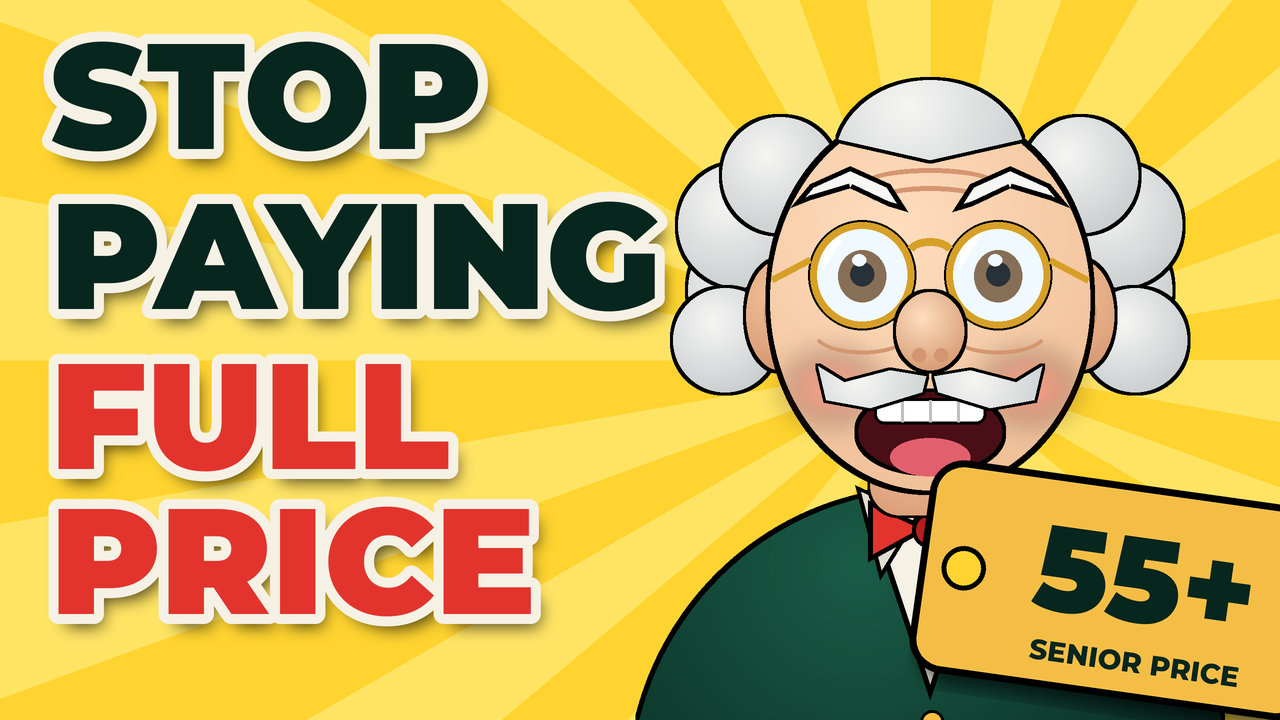
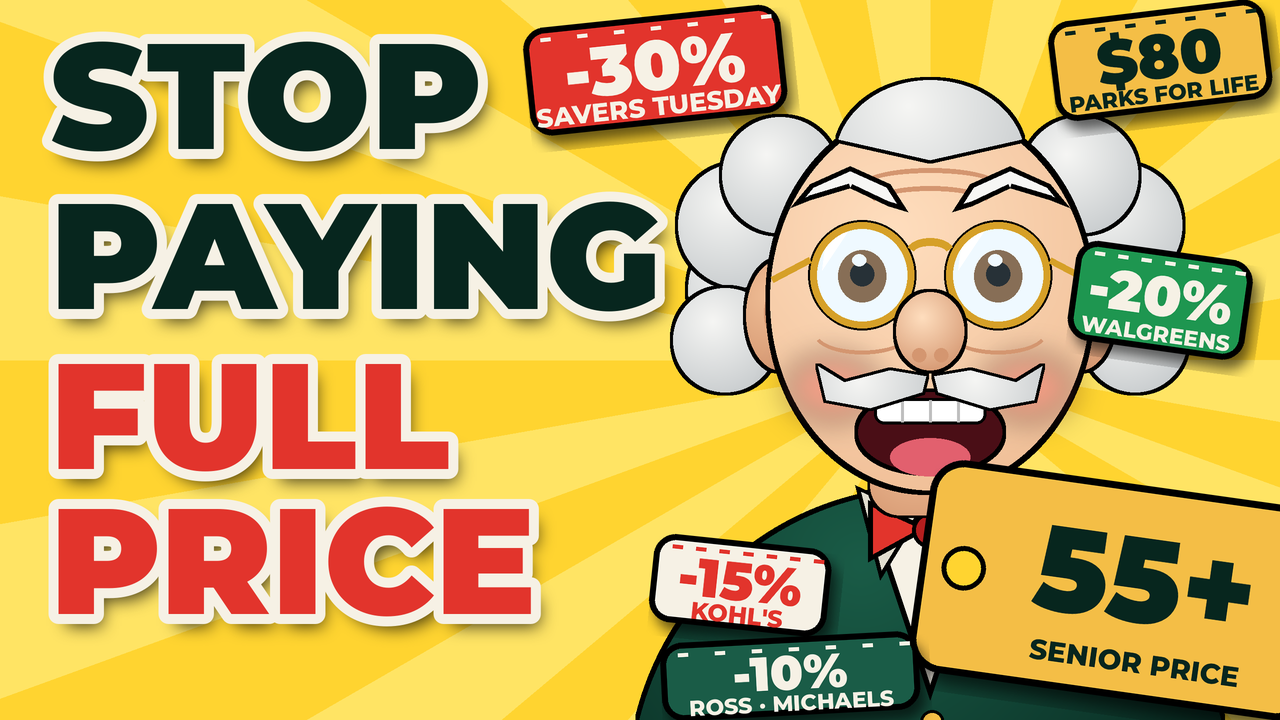
miniatura C con piu' sconti e numeri
Claude-Session: https://claude.ai/code/session_01VdcN6aGh1CnYp1K1Fxe615

diff --git a/senior_advantage/code/thumb_long1_c.py b/senior_advantage/code/thumb_long1_c.py
@@ -161,10 +161,29 @@ def hand(im, x, y, flip=False):
     d.rectangle([P(x - 60), P(y + 130), P(x + 80), P(y + 180)], fill=GREEN_L, outline=BLK, width=P(4))
 
 
+def sticker(im, cx, cy, big, small, w, h, ang, fill, fg, bigsz=70, smallsz=26):
+    W_, H_ = P(w), P(h)
+    lay = Image.new("RGBA", (W_, H_), (0, 0, 0, 0)); d = ImageDraw.Draw(lay)
+    d.rounded_rectangle([P(6), P(6), W_ - P(6), H_ - P(6)], radius=P(22), fill=fill, outline=BLK, width=P(6))
+    for k in range(7): d.line([(P(24) + k * (W_ - P(48)) / 6, P(18)), (P(24) + k * (W_ - P(48)) / 6 + P(10), P(18))], fill=fg, width=P(4))
+    d.text((W_ / 2, H_ * .46), big, font=F(P(bigsz), "Black"), fill=fg, anchor="mm")
+    d.text((W_ / 2, H_ * .80), small, font=F(P(smallsz)), fill=fg, anchor="mm")
+    sh = Image.new("RGBA", lay.size, (0, 0, 0, 0)); sh.paste(Image.new("RGBA", lay.size, (0, 0, 0, 150)), (0, 0), lay.split()[3]); sh = sh.filter(ImageFilter.GaussianBlur(P(6)))
+    lay = lay.rotate(ang, expand=True, resample=Image.BICUBIC); sh = sh.rotate(ang, expand=True, resample=Image.BICUBIC)
+    x, y = int(P(cx) - lay.width / 2), int(P(cy) - lay.height / 2)
+    base = im.convert("RGBA"); base.alpha_composite(sh, (x + P(6), y + P(10))); base.alpha_composite(lay, (x, y))
+    return base.convert("RGB")
+
+
 def build():
     im = bg()
+    im = sticker(im, 655, 70, "-30%", "SAVERS TUESDAY", 270, 120, 6, RED, IVORY)
     im = grandpa(im, 930, 300)
+    im = sticker(im, 1160, 300, "-20%", "WALGREENS", 190, 112, -8, (30, 150, 80), IVORY, 56, 22)
     im = pricetag(im, 1120, 590, -8)
+    im = sticker(im, 1160, 60, "$80", "PARKS FOR LIFE", 230, 112, 7, GOLD, GREEN_D, 62, 22)
+    im = sticker(im, 740, 585, "-15%", "KOHL'S", 190, 100, -6, IVORY, RED, 54, 24)
+    im = sticker(im, 790, 676, "-10%", "ROSS · MICHAELS", 270, 90, 3, GREEN_L, IVORY, 48, 22)
 
     # titolo
     L = [("STOP", 95, GREEN_D), ("PAYING", 255, GREEN_D), ("FULL", 415, RED), ("PRICE", 560, RED)]
